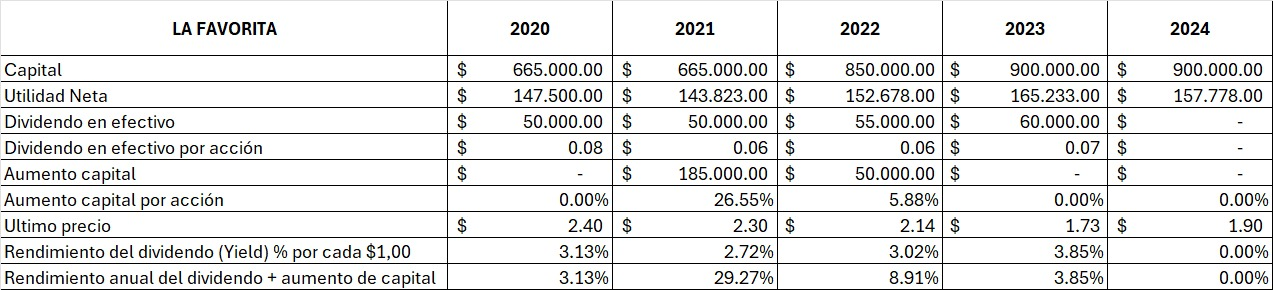
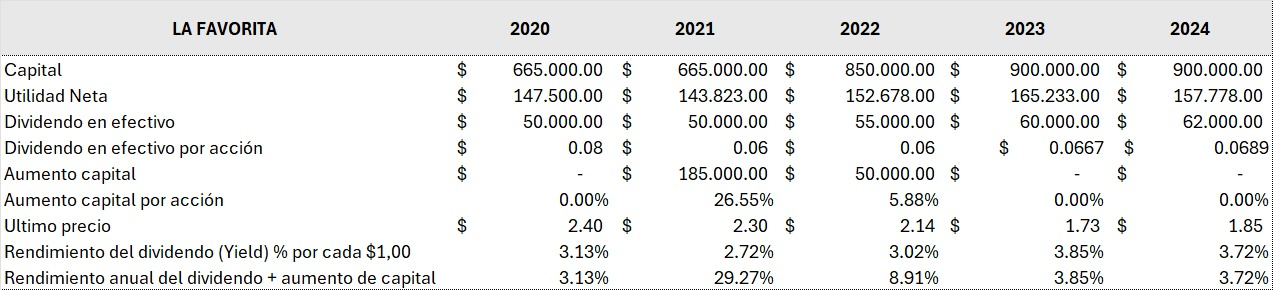
eR

diff --git a/templates/juntas_de_accionistas.html b/templates/juntas_de_accionistas.html
@@ -7,6 +7,12 @@
     <link rel="stylesheet" href="/static/css/styles1.css">
     <link rel="stylesheet" href="/static/css/styles2.css">
     <link rel="icon" href="/static/img/Logo_pestaña.png" type="image/png">
+    <style>
+        /* Centrar los subtítulos */
+        h3 {
+            text-align: center;
+        }
+    </style>
 </head>
 <body class="azul-marino">
     <header>
@@ -27,7 +33,7 @@
     <main>
         <!-- Nueva sección: Dividendos -->
         <section class="dividendos-section" style="margin-bottom: 50px;">
-            <h2>Dividendos</h2>
+            <h2>Pago De Dividendos</h2>
             <div class="dividendos-cuadros" style="margin-bottom: 30px;">
                 <h3>Sector Financiero</h3>
                 <div style="text-align: center;">
@@ -49,6 +55,7 @@
         <!-- Sección 1: Sector Financiero -->
         <section class="dividendos-section" style="margin-bottom: 50px;">
             <h2>Resultados Juntas de Accionistas - Sector Financiero</h2>
+            <h3>Rendimiento = Dividendo en efectivo por acción / último precio de la acción en 2024</h3>
             <div class="dividendos-cuadros" style="position: relative; text-align: center; margin-bottom: 30px;">
                 <img src="/static/img/juntas_comparativas/juntas_sector_financiero/juntas_sector_financiero.jpg" 
                      alt="Juntas del Sector Financiero" 
@@ -64,19 +71,19 @@
                 </div>
             </div>
         </section>
-        
 
         <!-- Sección 2: Bolsas de Valores -->
         <section class="dividendos-section" style="margin-bottom: 50px;">
             <h2>Resultados Juntas de Accionistas - Bolsas de Valores</h2>
+            <h3>Rendimiento = Dividendo en efectivo por acción / último precio de la acción en 2024</h3>
             <div class="dividendos-cuadros" style="position: relative; text-align: center; margin-bottom: 30px;">
                 <img src="/static/img/juntas_comparativas/juntas_bolsas/juntas_bolsas.jpg" 
                      alt="Juntas de las Bolsas de Valores" 
                      style="max-width: 50%; height: auto; border: 0.5px solid black; border-radius: 0.7px;">
-                     <p style="margin-top: 10px; font-size: 0.9em; color: black;">
-                        Fuente: Superintendencia de Compañías e Instituciones Emisoras
-                    </p>
-                </div>
+                <p style="margin-top: 10px; font-size: 0.9em; color: black;">
+                    Fuente: Superintendencia de Compañías e Instituciones Emisoras
+                </p>
+            </div>
             <div id="grafico-bolsas" style="position: relative; margin-top: 20px; text-align: center;">
                 <h2>Rendimientos de las Bolsas de Valores</h2>
                 <div>
@@ -88,14 +95,15 @@
         <!-- Sección 3: Sector Real -->
         <section class="dividendos-section" style="margin-bottom: 50px;">
             <h2>Resultados Juntas de Accionistas - Sector Real</h2>
+            <h3>Rendimiento = Dividendo en efectivo por acción / último precio de la acción en 2024</h3>
             <div class="dividendos-cuadros" style="position: relative; text-align: center; margin-bottom: 30px;">
                 <img src="/static/img/juntas_comparativas/juntas_sector_real/juntas_sector_real.jpg" 
                      alt="Juntas del Sector Real" 
                      style="max-width: 110%; height: auto; border: 0.5px solid black; border-radius: 0.7px;">
-                     <p style="margin-top: 10px; font-size: 0.9em; color: black;">
-                        Fuente: Superintendencia de Compañías e Instituciones Emisoras
-                    </p>
-                </div>
+                <p style="margin-top: 10px; font-size: 0.9em; color: black;">
+                    Fuente: Superintendencia de Compañías e Instituciones Emisoras
+                </p>
+            </div>
             <div id="grafico-sector-real" style="position: relative; margin-top: 20px; text-align: center;">
                 <h2>Rendimientos del Sector Real</h2>
                 <div>
@@ -107,34 +115,8 @@
     <footer class="pie-de-pagina">
         <div class="pie-informacion-redes">
             <div class="pie-informacion">
-                <p>
-                    Dirección de la empresa: Av. República de El Salvador N34-229 y Moscú, 
-                    Ed. San Salvador, Piso 7. Quito, Ecuador.
-                </p>
+                <p>Dirección: Av. República de El Salvador N34-229 y Moscú, Ed. San Salvador, Piso 7. Quito, Ecuador.</p>
                 <p>info@metrovalores.com.ec | (593 2) 2266 400 | (593) 96 260 3638</p>
-            </div>
-            <div class="pie-redes">
-                <a href="https://www.instagram.com/metrovalores/" target="_blank">
-                    <img src="/static/img/pie_de_pagina/instagram.jpg" alt="Instagram">
-                </a>
-                <a href="https://www.facebook.com/metrovalores/" target="_blank">
-                    <img src="/static/img/pie_de_pagina/facebook.jpg" alt="Facebook">
-                </a>
-                <a href="https://es.linkedin.com/company/metrovalores-casa-de-valores-s.a." target="_blank">
-                    <img src="/static/img/pie_de_pagina/linkedin.jpg" alt="LinkedIn">
-                </a>
-            </div>
-        </div>
-        <hr class="linea-separadora">
-        <div class="pie-noticias">
-            <h3 class="titulo-noticias">NOTICIAS</h3>
-            <div class="noticias-enlaces">
-                <a href="https://www.bolsadequito.com/index.php/noticias-2" target="_blank">
-                    <img src="/static/img/pie_de_pagina/BVQ.jpg" alt="BVQ Noticias">
-                </a>
-                <a href="https://bvgnoticias.com/" target="_blank">
-                    <img src="/static/img/pie_de_pagina/BVG.jpg" alt="BVG Noticias">
-                </a>
             </div>
         </div>
     </footer>

diff --git a/static/css/styles2.css b/static/css/styles2.css
@@ -534,3 +534,34 @@ body.azul-marino {
     font-size: 18px; /* Ajustar tamaño de la fuente para los datos */
 }
 
+/* Mantener ancho original */
+.tabla-renta-variable {
+    width: 100%; /* No reducir horizontalmente */
+    margin: 5px auto;
+}
+
+/* Compactar filas verticalmente al máximo sin modificar números */
+.tabla-renta-variable th,
+.tabla-renta-variable td {
+    padding: 0px 8px; /* El espacio mínimo absoluto */
+    line-height: 0.8; /* Reducir separación entre líneas */
+}
+
+/* Reducir altura de filas al extremo */
+.tabla-renta-variable tr {
+    height: 10px; /* Altura mínima para la tabla */
+}
+
+/* Mantener diseño visual y legibilidad */
+.tabla-renta-variable th {
+    background-color: #e0e0e0;
+    border-bottom: 1px solid #999;
+}
+
+.tabla-renta-variable tr:nth-child(even) {
+    background-color: #f5f5f5;
+}
+
+.tabla-renta-variable tr:hover {
+    background-color: #dcdcdc;
+}

diff --git a/templates/empresa.html b/templates/empresa.html
@@ -152,7 +152,7 @@
             style="max-width: 100%; height: auto;">
         </div>
         <!-- Resumen de Dividendos -->
-        <div class="dividendos-resumen">
+        <div class="dividendos-resumen" style="flex: 2; text-align: left;"
             <p>{{ obtener_resumen_dividendos(profile.Nombre)|safe }}</p>
         </div>
     </div>

diff --git a/data/resumen_dividendos.py b/data/resumen_dividendos.py
@@ -1,8 +1,7 @@
 def obtener_resumen_dividendos(empresa):
     resúmenes = {
         "BANCO GUAYAQUIL S.A.": "Aunque el rendimiento del dividendo (yield) disminuyó de 9.27% en 2023 a 7.60% en 2024, sigue siendo un rendimiento atractivo en comparación con otras opciones de inversión. La distribución constante de dividendos demuestra la estabilidad financiera del banco y su compromiso con los accionistas. El precio de la acción experimentó un aumento de $1.10 en 2023 a $1.20 en 2024, lo que indica una tendencia positiva en el valor de la institución. El aumento en el precio de la acción es un indicativo de la confianza del mercado en Banco Guayaquil. Si bien hubo una ligera disminución en el dividendo en efectivo por acción de $0.1020 en 2023 a $0.0912 en 2024, el banco mantiene su política de entrega de dividendos. Se mantiene un buen porcentaje de aumento de capital por acción. Banco Guayaquil S.A., representa una opción atractiva para inversores que buscan ingresos por dividendos y potencial de apreciación del capital a largo plazo.",
-        "CORPORACION FAVORITA C.A.": "El capital se mantuvo estable en $900,000.00 tanto en 2023 como en 2024, mientras que la utilidad neta mostró una ligera disminución, pasando de $165,233.00 en 2023 a $157,778.00 en 2024. Cabe mencionar que la junta correspondiente al ejercicio fiscal 2024 aún no se ha llevado a cabo, y se espera que los resultados y detalles sean divulgados durante el presente mes de abril, proporcionando así una base más completa para el análisis.",
-        "BANCO DE LA PRODUCCION S.A . PRODUBANCO": "Produbanco presentó un capital incrementado de $478,820.00 en 2023 a $520,460.00 en 2024, reflejando un crecimiento en su estructura de financiación. Sin embargo, la utilidad neta registró una contracción significativa, disminuyendo de $65,751.00 en 2023 a $42,900.00 en 2024. Además, el dividendo en efectivo disminuyó de $17,753.00 en 2023 a $11,583.00 en 2024, con una baja en el dividendo por acción de $0.0371 a $0.02. Pese a estos descensos, el fortalecimiento del capital sugiere un enfoque estratégico en la sustentabilidad a largo plazo.",
+        "CORPORACION FAVORITA C.A.": "El año 2024 representó un desafío para la gestión de La Favorita, con un desempeño que no alcanzó los niveles del periodo precedente. A pesar de esto, la empresa decidió aumentar el dividendo en efectivo a $62 millones, lo que se reflejó en un mayor dividendo por acción. Sin embargo, al analizar el rendimiento de este dividendo en función del precio de cierre de la acción, se observa una disminución. Esta situación contrasta con una leve recuperación del valor de mercado, sugiriendo que la empresa mantiene su capacidad de generar valor para el accionista. Adicionalmente, la Junta de Accionistas,  resolvió una recompra de acciones por $20 millones y un calendario de pagos de dividendos del ejercicio económico 2024, programado para el 2 de junio del 2025  y el 31 de octubre del 2025.",
         "CERVECERIA NACIONAL CN S A": "CERVECERÍA NACIONAL mantuvo su capital en $20,490.47 tanto en 2023 como en 2024, mientras que su utilidad neta reflejó un crecimiento positivo, aumentando de $66,780.00 en 2023 a $70,575.00 en 2024. De forma alineada, el dividendo en efectivo incrementó de $66,780.00 a $70,575.00, así como el dividendo por acción, que pasó de $3.26 a $3.44. Aunque el rendimiento del dividendo disminuyó de 8.15% a 7.48%, el último precio de la acción creció significativamente, de $40.00 a $46.00, lo que demuestra una valoración fortalecida.",
         "HOLCIM ECUADOR S.A.": "HOLCIM mantuvo su capital estable en $61,420.00 en 2023 y 2024, mientras que su utilidad neta mostró una disminución significativa, pasando de $95,322.00 en 2023 a $77,872.00 en 2024. Asimismo, el dividendo en efectivo decreció de $28,596.00 a $23,361.00, reflejando una baja en el dividendo por acción de $1.40 a $1.14. A pesar de la contracción en las cifras financieras clave, la empresa continúa mostrando solidez en su estructura de capital.",
         "BANCO PICHINCHA C.A.": "El precio de la acción se ha mantenido constante en $80.00 en los últimos dos años, lo que sugiere una estabilidad en el mercado. En cuanto a la dinámica de los dividendos, se evidencia disminución en los dividendos totales y por acción, así como en el rendimiento del dividendo, lo cual se explicaría básicamente por la menor rentabilidad del banco en el 2024 respecto al año anterior. Lo que repercute, también, en una disminución del aumento de capital por acción. Sin embargo, del comportamiento de las acciones, Banco Pichincha es una institución financiera sólida, con excelente trayectoria en el mercado.",

diff --git a/app.py b/app.py
@@ -336,7 +336,23 @@ def grafico_bolsas():
 
 @app.route('/grafico-sector-real')
 def grafico_sector_real():
-    empresas = ['HOLCIM ECUADOR S.A.', 'SAN CARLOS SOC. AGR. IND.', 'CERVECERIA NACIONAL CN S A', 'BEVERAGE BRAND PATENTS SA']
+    empresas = [
+        'HOLCIM ECUADOR S.A.', 
+        'SAN CARLOS SOC. AGR. IND.', 
+        'CERVECERIA NACIONAL CN S A', 
+        'BEVERAGE BRAND PATENTS SA',
+        'CORPORACION FAVORITA C.A.'  # Se incluye Corporación Favorita
+    ]
+
+    # Colores actualizados para cada empresa
+    colores = {
+        'HOLCIM ECUADOR S.A.': '#5BC0EB',  # Azul claro
+        'SAN CARLOS SOC. AGR. IND.': '#00A859',  # Verde
+        'CERVECERIA NACIONAL CN S A': '#FFD700',  # Amarillo
+        'BEVERAGE BRAND PATENTS SA': '#A9A9A9',  # Gris
+        'CORPORACION FAVORITA C.A.': '#FF0000'  # Rojo
+    }
+
     fig = go.Figure()
 
     for empresa in empresas:
@@ -346,7 +362,8 @@ def grafico_sector_real():
             y=datos_empresa['RENDIMIENTO'],
             mode='lines+markers',
             name=empresa,
-            line=dict(color=colores[empresa])
+            line=dict(color=colores[empresa], width=2),
+            marker=dict(color=colores[empresa], size=6)
         ))
 
     fig.update_layout(
@@ -371,6 +388,7 @@ def grafico_sector_real():
     )
 
     return fig.to_html(full_html=False, config=config)
+
 
 
 @app.route('/juntas-de-accionistas')
